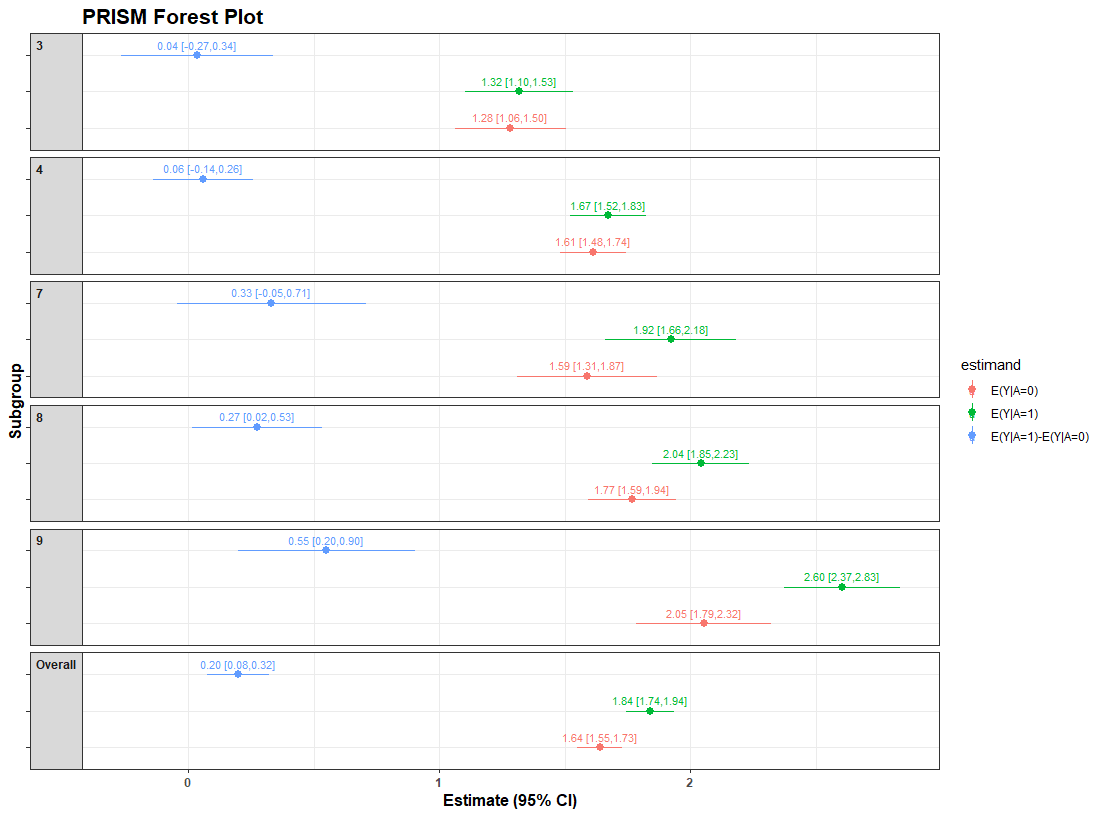
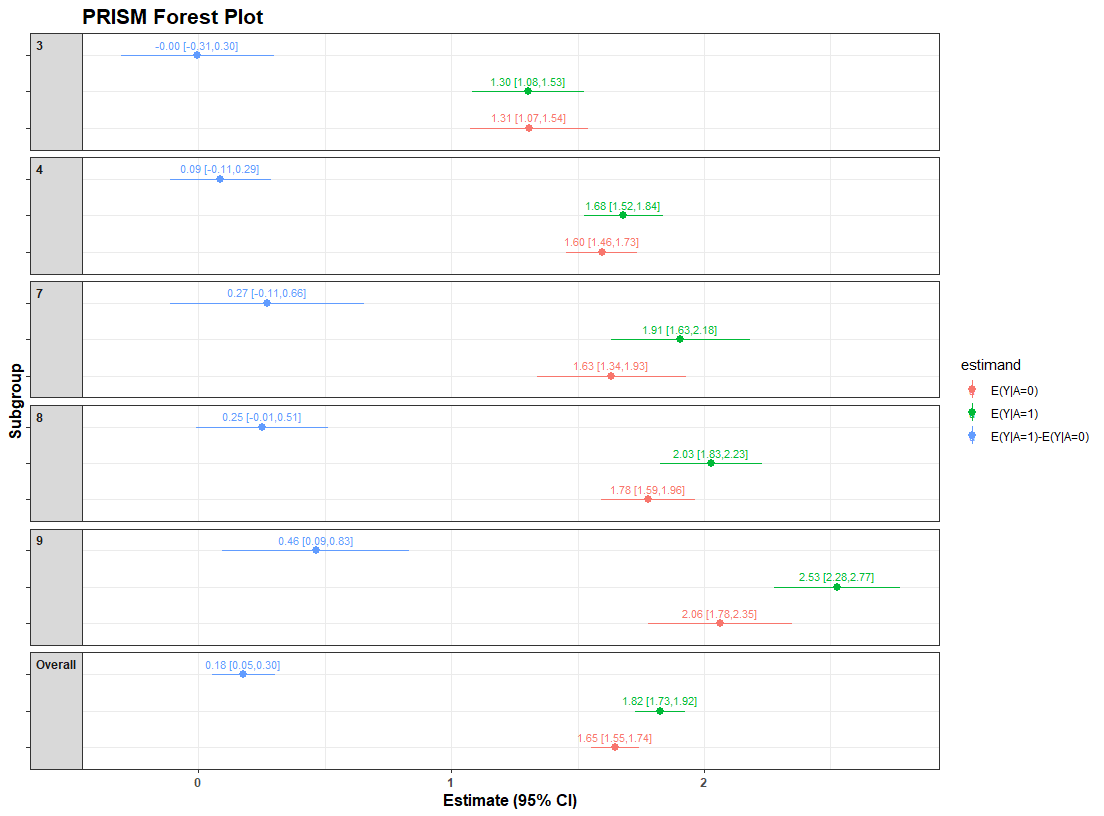
updated img

diff --git a/README.md b/README.md
@@ -76,44 +76,44 @@ plot(res0, type="PLE:waterfall") # waterfall plot of PLEs
 ``` r
 ## Overall/subgroup specific parameter estimates/inference
 res0$param.dat
-#>    Subgrps   N          estimand        est         SE         LCL
-#> 1        0 800          E(Y|A=0) 1.63979818 0.04567662  1.55013782
-#> 2        0 800          E(Y|A=1) 1.83953825 0.04871379  1.74391613
-#> 3        0 800 E(Y|A=1)-E(Y|A=0) 0.19974008 0.06329221  0.07550143
-#> 4        3 149          E(Y|A=0) 1.28297958 0.11169103  1.06226442
-#> 5        3 149          E(Y|A=1) 1.31807996 0.10932336  1.10204360
-#> 6        3 149 E(Y|A=1)-E(Y|A=0) 0.03510038 0.15343734 -0.26811059
-#> 7        4 277          E(Y|A=0) 1.61280771 0.06705679  1.48079995
-#> 8        4 277          E(Y|A=1) 1.67336273 0.07708837  1.52160684
-#> 9        4 277 E(Y|A=1)-E(Y|A=0) 0.06055502 0.10098218 -0.13823814
-#> 10       7  99          E(Y|A=0) 1.58968017 0.14067817  1.31050892
-#> 11       7  99          E(Y|A=1) 1.92148579 0.13161892  1.66029233
-#> 12       7  99 E(Y|A=1)-E(Y|A=0) 0.33180562 0.19007951 -0.04540098
-#> 13       8 168          E(Y|A=0) 1.76688140 0.08927908  1.59062031
-#> 14       8 168          E(Y|A=1) 2.04137779 0.09774962  1.84839357
-#> 15       8 168 E(Y|A=1)-E(Y|A=0) 0.27449640 0.13104528  0.01577751
-#> 16       9 107          E(Y|A=0) 2.05338724 0.13530977  1.78512246
-#> 17       9 107          E(Y|A=1) 2.60314625 0.11616776  2.37283238
-#> 18       9 107 E(Y|A=1)-E(Y|A=0) 0.54975901 0.17746914  0.19790919
+#>    Subgrps   N          estimand          est         SE         LCL
+#> 1        0 800          E(Y|A=0)  1.647206172 0.04818083  1.55263022
+#> 2        0 800          E(Y|A=1)  1.824851581 0.05059272  1.72554124
+#> 3        0 800 E(Y|A=1)-E(Y|A=0)  0.177645409 0.06401659  0.05198484
+#> 4        3 149          E(Y|A=0)  1.307796853 0.11780524  1.07499927
+#> 5        3 149          E(Y|A=1)  1.304127531 0.11253956  1.08173558
+#> 6        3 149 E(Y|A=1)-E(Y|A=0) -0.003669322 0.15361575 -0.30723286
+#> 7        4 277          E(Y|A=0)  1.595278111 0.07083816  1.45582638
+#> 8        4 277          E(Y|A=1)  1.681506030 0.07991550  1.52418467
+#> 9        4 277 E(Y|A=1)-E(Y|A=0)  0.086227920 0.10124699 -0.11308654
+#> 10       7  99          E(Y|A=0)  1.634126348 0.14867139  1.33909281
+#> 11       7  99          E(Y|A=1)  1.906350368 0.13876001  1.63098565
+#> 12       7  99 E(Y|A=1)-E(Y|A=0)  0.272224021 0.19338298 -0.11153820
+#> 13       8 168          E(Y|A=0)  1.777156158 0.09403446  1.59150665
+#> 14       8 168          E(Y|A=1)  2.028613094 0.10191424  1.82740676
+#> 15       8 168 E(Y|A=1)-E(Y|A=0)  0.251456937 0.13271402 -0.01055649
+#> 16       9 107          E(Y|A=0)  2.062340441 0.14392044  1.77700417
+#> 17       9 107          E(Y|A=1)  2.525732768 0.12550856  2.27689985
+#> 18       9 107 E(Y|A=1)-E(Y|A=0)  0.463392328 0.18604036  0.09454922
 #>          UCL          pval alpha
-#> 1  1.7294585 8.032773e-169  0.05
-#> 2  1.9351604 7.200995e-180  0.05
-#> 3  0.3239787  1.660367e-03  0.05
-#> 4  1.5036947  3.103578e-22  0.05
-#> 5  1.5341163  9.481730e-24  0.05
-#> 6  0.3383114  8.193710e-01  0.05
-#> 7  1.7448155  1.087589e-69  0.05
-#> 8  1.8251186  1.235131e-61  0.05
-#> 9  0.2593482  5.492246e-01  0.05
-#> 10 1.8688514  1.876468e-19  0.05
-#> 11 2.1826792  2.520863e-26  0.05
-#> 12 0.7090122  8.401201e-02  0.05
-#> 13 1.9431425  1.190149e-45  0.05
-#> 14 2.2343620  1.958038e-48  0.05
-#> 15 0.5332153  3.770973e-02  0.05
-#> 16 2.3216520  2.475816e-28  0.05
-#> 17 2.8334601  5.223720e-42  0.05
-#> 18 0.9016088  2.496084e-03  0.05
+#> 1  1.7417821 1.526241e-158  0.05
+#> 2  1.9241619 7.844199e-170  0.05
+#> 3  0.3033060  5.649268e-03  0.05
+#> 4  1.5405944  3.274666e-21  0.05
+#> 5  1.5265195  1.669789e-22  0.05
+#> 6  0.2998942  9.809754e-01  0.05
+#> 7  1.7347298  1.859005e-64  0.05
+#> 8  1.8388274  2.661126e-59  0.05
+#> 9  0.2855424  3.951417e-01  0.05
+#> 10 1.9291599  8.652905e-19  0.05
+#> 11 2.1817151  1.401325e-24  0.05
+#> 12 0.6559862  1.623859e-01  0.05
+#> 13 1.9628057  2.470671e-43  0.05
+#> 14 2.2298194  6.037915e-46  0.05
+#> 15 0.5134704  5.985669e-02  0.05
+#> 16 2.3476767  1.500633e-26  0.05
+#> 17 2.7745657  5.416700e-38  0.05
+#> 18 0.8322354  1.429656e-02  0.05
 ## Forest plot: Overall/subgroup specific parameter estimates (CIs)
 plot(res0, type="forest")
 ```
